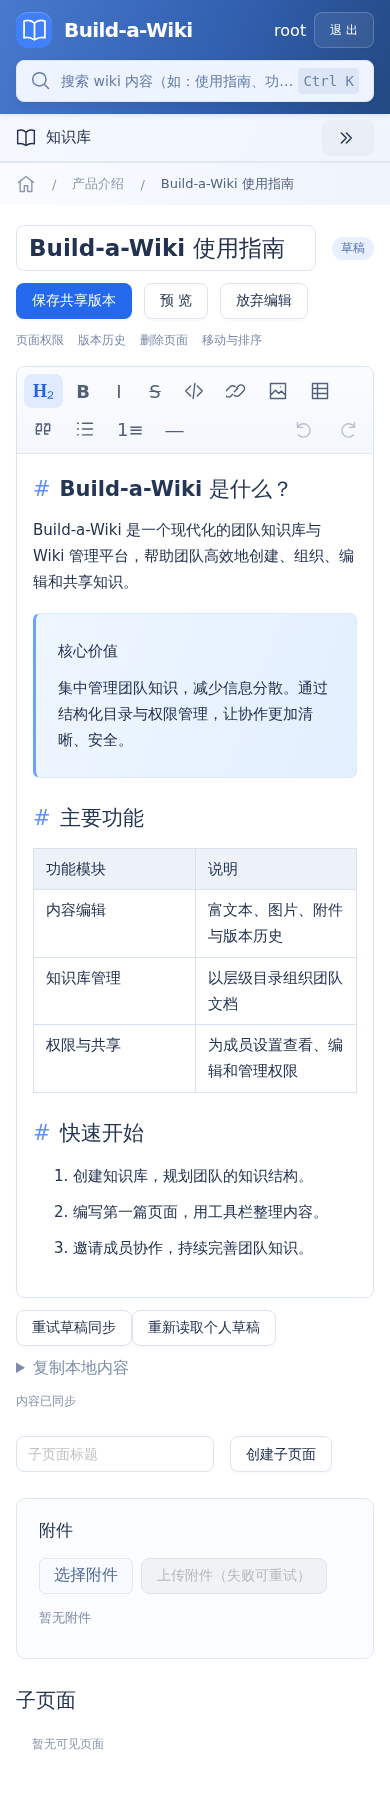
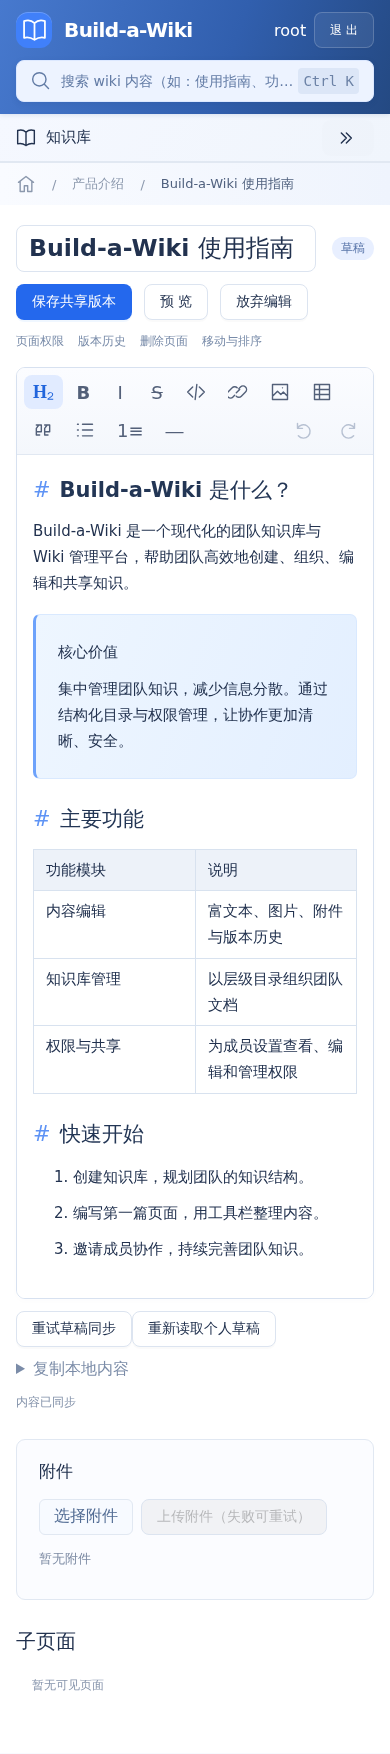
docs(ui): record preview and directory creation acceptance

diff --git a/docs/UI_REDESIGN.md b/docs/UI_REDESIGN.md
@@ -46,4 +46,18 @@ docker compose --env-file .data/compose-test.env -p wiki-acceptance \
 
 先前 `.data/releases/0.1.0-rc1` 离线包仍对应原候选版，未覆盖成新版 UI；当前 UI 改动、截图和验收记录另行提交 Git。本次视觉改版不替代 T59 的真实试用反馈或 T60 的正式发布交接。
 
-本次验证于 2026-11-17 完成：原生浏览器 4 项通过（53.9 秒，HTTPS 专用项在原生环境按预期跳过），实际 HTTPS 入口专用项另行通过（1.1 秒）。本机运行 UI 镜像 ID 前缀 `afcbe35ccf96`，仅 gateway 容器更新；API、数据库及持久卷保留。构建仍有既存的 vendor 分包大于 500 kB 提示，不影响构建通过。
+首次 UI 改版验证于 2026-11-17 完成：原生浏览器 4 项通过（53.9 秒，HTTPS 专用项在原生环境按预期跳过），实际 HTTPS 入口专用项另行通过（1.1 秒）。当时 UI 镜像 ID 前缀 `afcbe35ccf96`，仅 gateway 容器更新；API、数据库及持久卷保留。构建仍有既存的 vendor 分包大于 500 kB 提示，不影响构建通过。
+
+## 交互修正：保存提示、预览与目录创建
+
+| 项目 | 状态 | 备注 |
+| --- | --- | --- |
+| 保存成功提示 | ✔ | “共享版本已保存”显示后 5 秒自动清除，右侧 × 可立即关闭；组件卸载或消息变化时清理计时器。错误与草稿恢复提示保留原逻辑。 |
+| 无框预览 | ✔ | 先前预览复用了编辑器容器的边框；现在阅读/预览正文取消外边框、圆角和阴影，预览标题也使用纯文本。编辑模式保留边框和工具栏。 |
+| 目录创建页面 | ✔ | 左侧每个知识库和页面节点右侧增加 +；知识库创建顶层页面，页面创建其子页面。弹窗校验标题，成功后刷新目录并跳转；请求失败保留输入，重试复用请求 ID。只读节点禁用按钮，后端继续校验权限。 |
+| 移除正文创建表单 | ✔ | 页面正文中的子页面标题输入框和创建按钮移除，保留子页面列表。 |
+
+本轮生产构建、格式检查和 8 项单元测试通过；4 项原生浏览器场景通过（53.8 秒）。新增断言覆盖提示自动消失/手动关闭、预览无边框/阴影、目录创建顶层/子级/孙级页面及实际 parent_id、空标题校验、只读用户禁用创建。截图已更新。无需新增依赖。
+
+当前前端镜像 ID 前缀 `508d59d28b98`，仍通过 `compose.ui-preview.yaml` 使用 `ui-refresh` 标签。
+更新后的实际 HTTPS 入口健康检查与部署登录测试也已通过（1 项）；原账号、页面和附件数据保留。

diff --git a/docs/CHECKLIST.md b/docs/CHECKLIST.md
@@ -95,3 +95,4 @@ A组任务已完成并记录校验小结。复现命令和结果详见 VALIDATIO
 | 任务 | 状态 | 备注 |
 | --- | --- | --- |
 | UI 改版 | ✔ | 对照主界面设计图实现蓝色顶栏、全局搜索、知识库目录、文档工具栏和响应式布局；8 项单元测试及 4 项原生浏览器场景通过，桌面/平板/手机截图及本机更新方法见 [UI_REDESIGN.md](UI_REDESIGN.md)。 |
+| UI 交互修正 | ✔ | 保存提示 5 秒自动消失并支持关闭；阅读/预览正文无框；左侧目录节点 + 支持逐级创建，移除正文创建表单；8 项单元及 4 项浏览器场景通过，详见 UI_REDESIGN.md。 |
